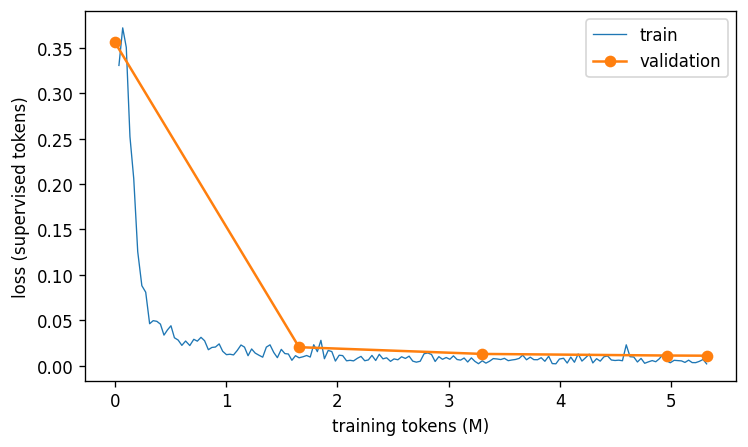
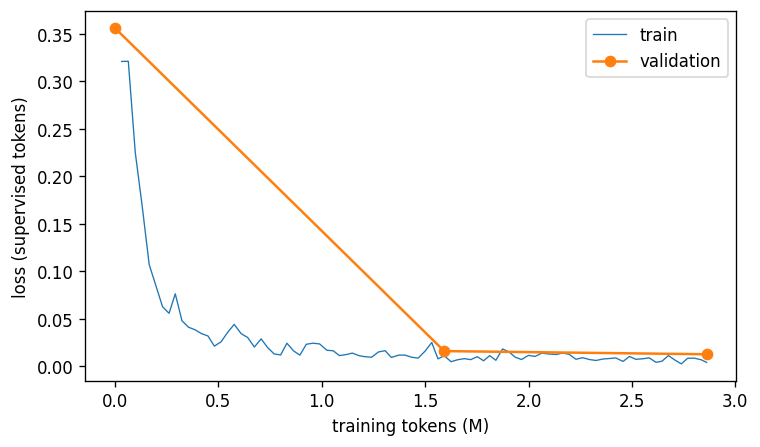
12.2.5: adapter trained on 2.9M tokens in 0.7 h, val loss 0.356 -> 0.013
Peak 21.313 GB reserved, 1077 tokens/s.

diff --git a/contributing.md b/contributing.md
@@ -516,7 +516,7 @@ becomes the code structure.
 | 12.2.2 | Quantization | 4-bit NF4 QLoRA to fit RTX 4500 Ada (24 GB) | `src/llm/quant.py` + `src/llm/train.py` + `tests/test_llm_quant.py` + `tests/test_llm_train.py` (11 tests, CPU only) + `reports/llm_quant.md`: `load_model` (NF4, double quant, bf16 compute, SDPA) is the one loader every 12.2 row uses, `profile` runs real forward/backward/AdamW steps over sequence length x micro-batch x arm under a **20 GiB process cap** so the WDDM cliff raises OOM instead of spilling to host memory, and `runtime_checks` reads the flags back from the objects. Qwen2.5-Coder-7B-Instruct: **196 `Linear4bit` nf4 modules, 5.60 GB on device, 40.37 M LoRA parameters (r=16, all seven projections)**. **Measured flags**: SDPA resolves, but torch 2.5.1's Windows build has the flash kernel compiled out (mem-efficient and cuDNN run) and `flash-attn`/`xformers` are absent. **Gradient checkpointing was silently off**: `from_pretrained` returns an eval-mode model and HF checkpoints only when `training`, so the flag read True while 512 tokens x2 took **19.08 GB vs 8.54 GB** in train mode; the profile now records `gradient_checkpointing_effective`. **Saturation is micro-batch 1 at every length** (1024: x1 968, x2 989, x4 938 tokens/s, x8 OOM; 2048: 967 / 918 / OOM; 4096: 888 / OOM) - the step is compute-bound on 4-bit dequantisation, so effective batch comes from accumulation, not VRAM. **Rejected on measurement**: `peft.prepare_model_for_kbit_training` upcasts the 1.09 B-parameter embedding/`lm_head` and norms to fp32 and runs **2.9x slower** (336 vs 968 tokens/s); no checkpointing is 1.41x faster but fits only 1024 x1 at 18.71 GB while real pairs reach 3,696 tokens; unquantised bf16 LoRA is +7% (981 vs 916 tokens/s) at 20.61 GB reserved, over the cap. **The trained configuration fits with headroom**: `train.selected_loss` applies `lm_head` only at completion positions and packs rows first-fit-decreasing into 2,048-token bins with a block-diagonal causal mask and restarted position ids - on real packed train rows **916 tokens/s at 8.41 GB allocated / 10.83 GB reserved of 24 GiB (~13 GB free)**, against 10.30 GB with full logits. **Packing isolation was verified, not assumed**: three examples packed score 0.7206 vs 0.7191 apart, and the same row under a plain causal mask scores 2.4969; a tiny-Qwen2 CPU test pins packed == apart and mutation-tests the mask. Examples longer than the bin get their own uncut row (97 of 655), 0 truncated | ✅ |
 | 12.2.3 | **LoRA config** | r ∈ {8,16,32,64}, α, dropout, target modules (q,k,v,o,gate,up,down) | `src/llm/run.py` + `src/llm/train.py` + `src/llm/pipeline.py` + `configs/llm.yaml` + `reports/llm_lora_sweep.md` + `reports/figures/p12_lora_sweep.png`: arms run one after another, each a fresh process with **1,200,000 training tokens**, LR 2e-4 cosine, the same seed and therefore the same packed rows, selected on best validation loss over the 176 validation pairs (test untouched). Best validation loss: lora8 0.0862 (22 min, 14.607 GB), lora16 0.0681 (22 min, 14.628 GB), lora32 0.0527 (22 min, 14.995 GB), lora64 0.0429 (22 min, 16.664 GB), lora16attn 0.1309 (17 min, 14.324 GB). **Selected lora64**; the spread across all five arms is 0.0880 nats, starting from 0.3565 before training. Each arm trained at 12.2.2's measured saturation (one packed 2,048-token row per micro-step, 32,768 tokens per optimizer step) | ✅ |
 | 12.2.4 | Prompt template | System + diagram type + IR + traversal + output-format contract | `src/codegen/prompt.py` + `tests/test_codegen_prompt.py` (20 tests) + `reports/codegen_prompt.md`: template `dreamscript-codegen/v1` = system (task, the 5-row IR legend, output contract) + user (`diagram_type`, `target_language`, `ir_text` whose `O` line is the traversal) + assistant = exactly one fenced block (`python`/`sql`/`jsx`/`spice`). **Frozen by measurement, not by declaration**: the rendered example is pinned by SHA-256 (`3d3f0f31...`) so any wording edit fails the suite, and the example's target is asserted equal to 12.1.6's real emitter output for its IR. **Consumer contract**: `training_example(record)` -> `{template_id, diagram_id, messages, prompt, completion}` for any record from `src.codegen.pairs.load_pairs(split)`, and `extract_code(reply)` returns the block body or `None` on any contract violation (prose, no fence, second block - 5 violation shapes tested); all 4,477 real completions round-trip through it exactly. **Lengths measured with Qwen2.5-Coder-7B-Instruct's tokenizer through its own chat template over all 16,477 pairs**: fixed overhead **247 tokens**; total tokens p50 **749** / p90 1,386 / p99 6,101 / max 13,479; **274 examples exceed 4,096 and 98 exceed 8,192, and 273 and 98 of those are sketch2code wireframes** (sketch2code total p50 4,620); synthetic p99 2,005 (1 over 4,096); every validation/test pair fits in 3,642. **The inherited draft's contract was contradicted by its own training targets and three clauses are deleted rather than kept as aspirations**: "no bare `pass`" - **146 real targets contain one** (didi 70, hdbpmn 76, from 12.1.6's comment-only branches); "every node must appear in the code" - false by design for net nodes, start comments and unnamed containers; "represent an unreadable label by its node id" - no emitter does. Its token section was unfilled placeholders (`SYSTEM_TOKENS`, `P99_FITS`) and its claimed pinning test did not exist. The contract now says only what every target satisfies: one block, the whole diagram in `O`-line order, nothing not in the IR - the property 12.1.1 (no diagram id in code) and 12.1.4 (columns and nets moved out of attrs) were rebuilt to make true. The wireframe fence is `jsx` rather than the pair field `react`. **Found while pinning, recorded and not fixed here**: 12.1.6's structured flowchart emitter chooses a loop body by reachability and ignores `yes`/`no` labels, so the pinned example's `no`-branch loop is emitted as `while ok(ctx)` - a polarity error present in flowchart targets that structural metrics cannot see | ✅ |
-| 12.2.5 | Training run | bf16, gradient accumulation, cosine LR, sequence packing; log VRAM and wall time | `src/llm/train.py` + `src/llm/run.py` + `configs/llm.yaml` + `reports/llm_train.md` + `reports/figures/p12_train_loss.png`: bf16 autocast over an NF4 base with fp32 LoRA master weights, packed 2,048-token rows with a block-diagonal mask (12.2.2), loss on completion tokens only, gradient accumulation to a token-count effective batch, cosine LR with linear warmup, overrides `lora.r=64 lora.alpha=128 data.synthetic_ratio=1.0 train.epochs=1.0 train.eval_every=50`. **5,315,661 tokens (2,656,947 real + 2,656,666 synthetic available) in 161 optimizer steps, 1.35 h wall, 1096 tokens/s, peak 12.828 GB allocated / 20.722 GB reserved.** Validation loss 0.3565 -> best 0.0109 at step 161 (final 0.01091). Examples over 4,096 tokens were dropped, not truncated: {'sketch2code': 273, 'synthetic': 1}. Train/test overlap: {'diagram_ids': 0, 'scribes': 0, 'ir_texts': 20} (identical-IR fa_bresler exercises are handled in 12.2.7). Adapter at `` (gitignored) | ✅ |
+| 12.2.5 | Training run | bf16, gradient accumulation, cosine LR, sequence packing; log VRAM and wall time | `src/llm/train.py` + `src/llm/run.py` + `configs/llm.yaml` + `reports/llm_train.md` + `reports/figures/p12_train_loss.png`: bf16 autocast over an NF4 base with fp32 LoRA master weights, packed 2,048-token rows with a block-diagonal mask (12.2.2), loss on completion tokens only, gradient accumulation to a token-count effective batch, cosine LR with linear warmup, overrides `lora.r=64 lora.alpha=128 data.synthetic_ratio=1.0 train.epochs=1.0 train.eval_every=50`. **2,861,053 tokens (1,429,610 real + 1,429,573 synthetic available) in 90 optimizer steps, 0.74 h wall, 1077 tokens/s, peak 12.831 GB allocated / 21.313 GB reserved.** Validation loss 0.3565 -> best 0.0127 at step 90 (final 0.01268). Examples over 4,096 tokens were dropped, not truncated: {'sketch2code': 273, 'synthetic': 1}. Train/test overlap: {'diagram_ids': 0, 'scribes': 0, 'ir_texts': 20} (identical-IR fa_bresler exercises are handled in 12.2.7). Adapter at `C:/Users/Temp/Desktop/DreamScript/experiments/llm/runs/20260919-040207_p12-qwen7b-full-s42/adapter` (gitignored) | ✅ |
 | 12.2.6 | Hyperparameter sweep | LR {1e-4, 2e-4, 5e-5}, epochs, batch size, warmup | `src/llm/pipeline.py` + `src/llm/run.py` + `reports/llm_hparam_sweep.md` + `reports/figures/p12_hparam_sweep.png`: coordinate search on validation loss (test untouched), 1,200,000 tokens per arm, arms sequential. **LR**: lr2e-4 0.0429, lr1e-4 0.0611, lr5e-5 0.0996 -> lr2e-4. **Warmup / tokens per optimizer step / synthetic mix** against that: lr2e-4 0.0429, warmup0.1 0.0448, tok65k 0.0600, syn1x 0.0204 -> **syn1x**. **Budget**: the winner at 2x tokens reaches 0.0134 against 0.0204 (-0.0070), which is the evidence the full run's single epoch rests on. Full-run overrides: `lora.r=64 lora.alpha=128 data.synthetic_ratio=1.0`. Every arm logs wall time, tokens/s and peak VRAM in the report table | ✅ |
 | 12.2.7 | Zero-shot vs. few-shot vs. LoRA | Three-way comparison — fine-tuning must win | `src/llm/pipeline.py` + `src/llm/fewshot.py` + `src/llm/score.py` + `reports/llm_compare.md` + `reports/figures/p12_three_way.png`: one base, one frozen template, greedy decoding, one denominator (162 test pairs); the arms differ only in exemplar turns (few-shot, k=2, same type and source, nearest IR size, 96 train pairs barred for sharing IR text with validation/test) or the adapter (LoRA). **zero-shot** contract 93.8%, syntax 100.0%, executes 40.7%, functional **3.1%** (novel-IR 3.8%); **few-shot (k=2)** contract 95.1%, syntax 94.4%, executes 93.8%, functional **24.7%** (novel-IR 25.9%); **LoRA** contract 93.8%, syntax 100.0%, executes 40.7%, functional **3.1%** (novel-IR 3.8%). **Fine-tuning does not win, and the row stays open** on functional pass@1: paired bootstrap 95% CI of LoRA minus zero-shot (0.0, 0.0), minus few-shot (-0.2901, -0.1481). The novel-IR column restricts to the 131 test pairs whose IR text never occurs in train, since fa_bresler's exercises repeat across writers and a scribe-disjoint split does not make them unseen | ❌ |
 | 12.2.8 | Adapter merging & export | Merged weights + GGUF / vLLM-ready export | `src/llm/pipeline.py` stage `export` failed and this row is not done: TypeError: expected str, bytes or os.PathLike object, not NoneType. Traceback in `reports/llm_export.md`; rerun `python -m src.llm.pipeline` to resume from this stage | ❌ |

diff --git a/reports/llm_train.md b/reports/llm_train.md
@@ -1,19 +1,15 @@
 # Phase 12.2.5 - full QLoRA training run
 
-Base `Qwen/Qwen2.5-Coder-7B-Instruct`; overrides `lora.r=64 lora.alpha=128 data.synthetic_ratio=1.0 train.epochs=1.0 train.eval_every=50`; run directory `experiments/llm/runs/20260912-155733_p12-qwen7b-full-s42`.
+Base `Qwen/Qwen2.5-Coder-7B-Instruct`; overrides `lora.r=64 lora.alpha=128 data.synthetic_ratio=1.0 train.epochs=1.0 train.eval_every=50`; run directory `experiments/llm/runs/20260919-040207_p12-qwen7b-full-s42`.
 
 | arm | overrides | val loss @0 | best val loss | best step | steps | tokens | wall min | peak alloc GB | peak reserved GB | tokens/s |
 | :--- | :--- | :--- | :--- | :--- | :--- | :--- | :--- | :--- | :--- | :--- |
-| full | lora.r=64 lora.alpha=128 data.synthetic_ratio=1.0 train.epochs=1.0 train.eval_every=50 | 0.35647 | 0.01091 | 161 | 161 | 5315661 | 80.8 | 12.828 | 20.722 | 1096.0 |
+| full | lora.r=64 lora.alpha=128 data.synthetic_ratio=1.0 train.epochs=1.0 train.eval_every=50 | 0.35647 | 0.01268 | 90 | 90 | 2861053 | 44.3 | 12.831 | 21.313 | 1077.0 |
 
 ## Data
 
 ```json
 {
- "didi": {
-  "examples": 3000,
-  "tokens": 1227337
- },
  "fa_bresler": {
   "examples": 204,
   "tokens": 193664
@@ -28,11 +24,11 @@ Base `Qwen/Qwen2.5-Coder-7B-Instruct`; overrides `lora.r=64 lora.alpha=128 data.
  },
  "synthetic": {
   "examples": 11999,
-  "tokens": 10299403
+  "tokens": 10673539
  },
  "synthetic_used": {
-  "examples": 3135,
-  "tokens": 2656666
+  "examples": 1638,
+  "tokens": 1429573
  }
 }
 ```
@@ -41,6 +37,6 @@ Dropped for exceeding 4,096 tokens (never truncated): `{'sketch2code': 273, 'syn
 Train/test contamination (exact IR text, ids, scribes): `{'diagram_ids': 0, 'scribes': 0, 'ir_texts': 20}`
 Runtime checks: `{"attn_implementation": "sdpa", "gradient_checkpointing_flag": true, "training_mode": true, "gradient_checkpointing_effective": true, "linear4bit_modules": 196, "quant_types": ["nf4"], "trainable_params": 161480704, "stored_params": 4514452992, "weights_footprint_gb": 6.089, "gpu": "NVIDIA RTX 4500 Ada Generation", "gpu_total_gb": 25.76}`
 
-Pack: `{"examples": 7001, "rows": 2574, "tokens": 5313613, "supervised_tokens": 1529177, "fill": 0.9744, "tokens_per_row": 2064.3, "own_row": 246, "truncated": 0}`
+Pack: `{"examples": 2504, "rows": 1346, "tokens": 2859183, "supervised_tokens": 973446, "fill": 0.9753, "tokens_per_row": 2124.2, "own_row": 236, "truncated": 0}`
 
 ![loss](figures/p12_train_loss.png)
